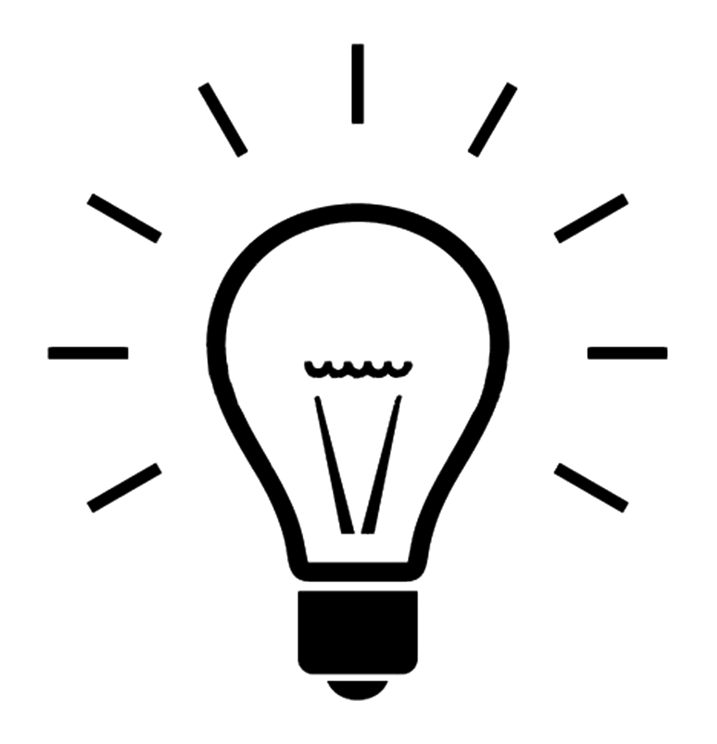
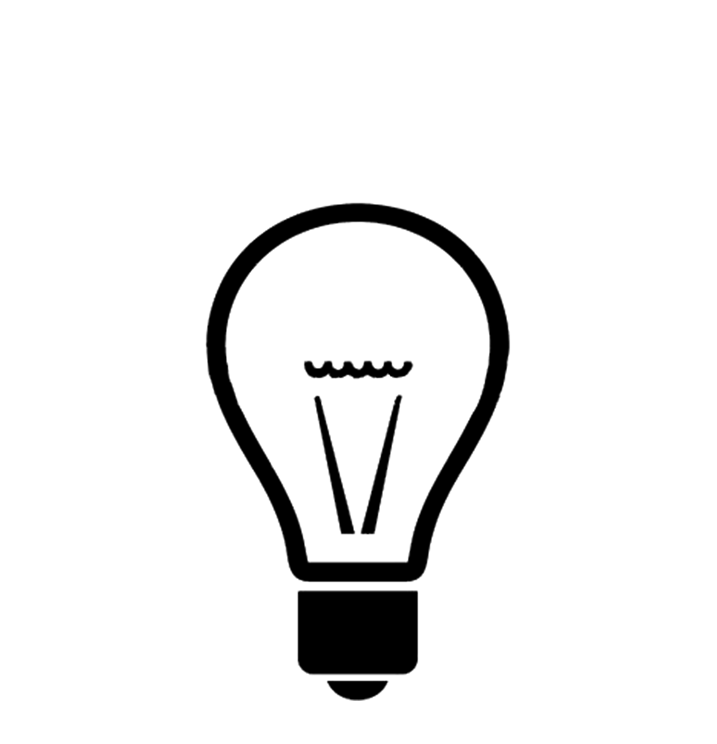
Changed light off image

diff --git a/index.html b/index.html
@@ -10,8 +10,11 @@
 <link href="style.css" rel="stylesheet">
 
 <body>
-  <h1>Home Dashboard</h1>
-  <img class="card-img-top" src="img/boxyellow.gif" width="100" height="200">
+
+    <div class="card">
+  <h4>Zonar's Studio</h4>
+  <img class="card-img-top" src="img/boxyellow.gif">
+  </div>
   <div class="section2" class="container-fluid padding">
     <div class="row padding">
         <div class="col-md-8">

diff --git a/style.css b/style.css
@@ -16,7 +16,7 @@ navbar {
 }
 
 .nav-link {
-  font-size: 1em !important !;
+  font-size: 1em !important;
 
 }
 
@@ -104,7 +104,7 @@ navbar {
 }
 
 .card {
-  background-color: #343A40;
+  background-color: #0051a1;
   width: 12rem;s;
 }
 
